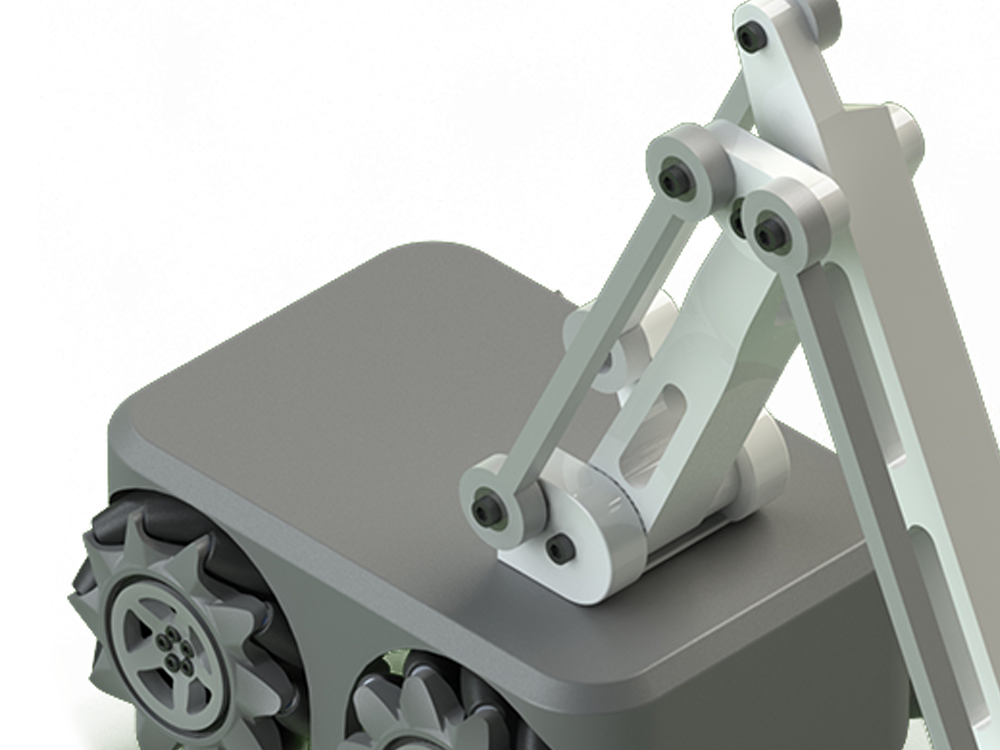
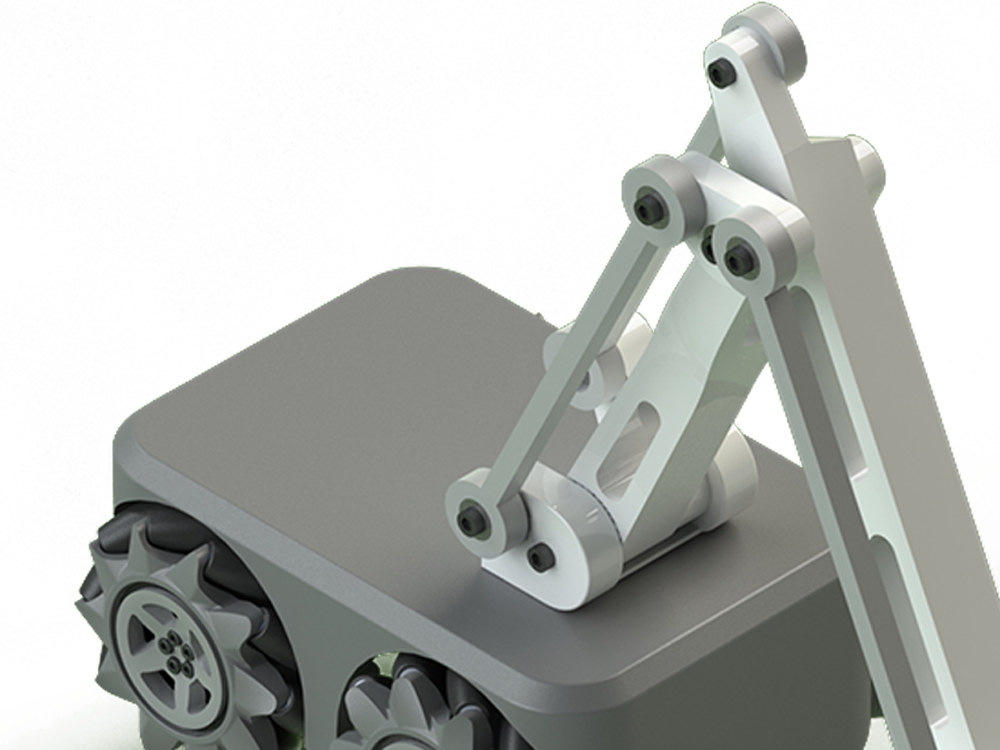
mobile photos

Changed region(s): [[0.062, 0.0, 1.0, 1.0], [0.31, 0.7667, 0.341, 0.7973]]

diff --git a/src/App.js b/src/App.js
@@ -5,38 +5,38 @@ const designProjects = [
   {
     title: 'Fixed Wing UAV',
     image: 'images/fixedwing.png',
-    mobile_image: 'images/fixed-wing-uav.jpg',
+    mobile_image: 'images/fixedwingmobile.png',
     summary: 'I conducted Multi-Disciplinary Optimization, with an emphasis on electric propulsion, by implementing governing equations in MATLAB to optimize airfoil parameters, wing size, sweep, tail size, and position for balanced UAV cruise and takeoff performance.',
     portfolio: {start: 4, end: 14}
   },  
   {
     title: 'Recumbent Bicycle',
     image: 'images/raftaar.png',
-    mobile_image: 'images/recumbent-bicycle.jpg',
+    mobile_image: 'images/raftaarmobile.png',
     summary: 'The project focused on designing a fully faired recumbent bicycle, achieving a 40% reduction in frontal area while optimizing ergonomics, aerodynamics, and handling. An aerodynamic fairing based on the NACA airfoil was designed. Additionally, a 60% cost reduction in mold manufacturing was achieved by using styrofoam for pattern production.',
     portfolio: {start: 15, end: 26}
   },
   {
     title: 'Quadcopter',
     image: 'images/uav.png',
-    mobile_image:  'images/quadcopter.jpg',
+    mobile_image:  'images/uavmobile.png',
     summary: 'The project involved designing the quadcopter frame based on industry standards, conducting topology optimization for weight and structure optimization, and using additive manufacturing for fabrication. This ensured a high-performance, lightweight quadcopter design aligned with industry standards.',
     portfolio: {start: 27, end: 36}
   },
   {
     title: 'Mobile Robotic Arm',
     image: 'images/robot.png',
-    mobile_image:  'images/robotic-arm.jpg',
+    mobile_image:  'images/robotmobile.png',
     summary: 'Developed a cost-efficient mobile robotic arm system tailored for Small and Medium Enterprises (SMEs), designed to execute pick-up and place operations. Enhanced the arms design for weight and strength optimization using Topology Optimization techniques, resulting in a 30% reduction in the overall weight of the robotic arm.',
     portfolio: {start: 37, end: 41}
   }
 ];
 const researchProjects = [
   {
-    title: 'Evaluating The Effect Of Process Parameters On Fsp Of Al5083 Alloy',
+    title: 'FSP Parameter Optimization',
     image: 'images/fsp.png',
-    mobile_image:  'images/ai5083.jpg',
-    summary: 'Uncover the intricacies of solid-state metal processing through an analysis of Friction Stir Processing (FSP) of Al5083 alloy. Investigate the influence of process parameters on material behavior through numerical simulations and experimental trials. This study provides insights into optimizing metal joining techniques through an understanding of temperature gradients and stress distributions.',
+    mobile_image:  'images/fsp.png',
+    summary: 'In this project, I evaluated the effect of process parameters on Friction Stir Processing (FSP) of the Al5083 alloy using ANSYS 18.1. By constructing a 3-D thermomechanical model, I identified the optimal conditions for desired stir zone properties and published the findings in *Annales de Chimie - Science des Matériaux* in 2021.',
     portfolio: {start: 42, end: 52}
   }
 ];
@@ -45,15 +45,15 @@ const courseProjects = [
   {
     title: 'Impact of Wing Sweep',
     image: 'images/sweep.png',
-    mobile_image: 'images/wing-sweep.jpg',
-    summary: 'Delve into aerodynamics research by investigating the impact of wing sweep using the Hess-Smith Panel method implemented in Python. This project focuses on computational analysis to understand how wing sweep affects lift, drag, and overall aerodynamic performance. Through simulation and analysis, the goal is to provide insights into the design and optimization of swept-wing configurations for various aerospace applications.',
+    mobile_image: 'images/sweep.png',
+    summary: 'In this project, I investigated the impact of wing sweep on aerodynamic factors using the Hess and Smith Panel Method in Python. The study analyzed the effects of sweep angle (𝝠) on lift, drag, and pitching moment coefficients and included a boundary layer code for thickness and transition point calculations, aiding in wing design optimization.',
     portfolio: {start: 53, end: 56}
   },
    {
     title: 'Beam Impact Test',
     image: 'images/stresstest.png',
-    mobile_image: 'images/pipes.jpg',
-    summary: 'Explore the mechanical behavior of PVC pipes under different loading conditions through a beam impact test. This project involves studying the responses of PVC pipes to both quasi-static and dynamic loading using strain gauge measurements. By analyzing the deformation and failure modes under various loading scenarios, the aim is to enhance understanding of the structural performance of PVC pipes and inform engineering practices for their design and application.',
+    mobile_image: 'images/stresstest.png',
+    summary: 'In my experimental stress analysis course, I conducted a beam impact test of PVC pipes using strain gauges. We examined impact resistance under quasi-static and dynamic loading by analyzing strain profiles on a simply supported PVC pipe. The findings revealed complex mechanical behaviors, enhancing predictive models for engineering applications.',
     portfolio: {start: 57, end: 63}
    }
 ];
@@ -71,7 +71,7 @@ const projectTypes = [
   },
   {
     title: 'Course Projects',
-    summary: 'In my course projects, I apply theoretical concepts learned in academia to practical scenarios, honing my problem-solving skills and deepening my understanding of core engineering principles. From finite element analysis to circuit design, these projects offer hands-on experience and reinforce my academic learning.',
+    summary: 'In my course projects, I apply theoretical concepts learned in academia to practical scenarios, honing my problem-solving skills and deepening my understanding of core engineering principles. These projects provide hands-on experience and reinforce my academic learning.',
     projects: courseProjects
   }
 
@@ -86,7 +86,7 @@ function App() {
           <div className='flex flex-col gap-4 max-w-screen-lg m-auto'>
             <div className='flex items-center justify-between sticky bg-white w-full top-0 p-6'>
               <h1 className='text-xl font-bold'>{openProject.title}</h1>
-              <button onClick={() => setOpenProject(null)}>Close</button>
+              <button onClick={() => setOpenProject(null)} className='flex gap-2 bg-black text-white rounded-2xl self-start p-2 pr-4 pl-4 mt-2 hover:bg-white hover:text-black transition-all duration-300 border-2 border-black'>Close</button>
             </div>
             <p className='text-lg p-6'>{openProject.summary}</p>
             {
